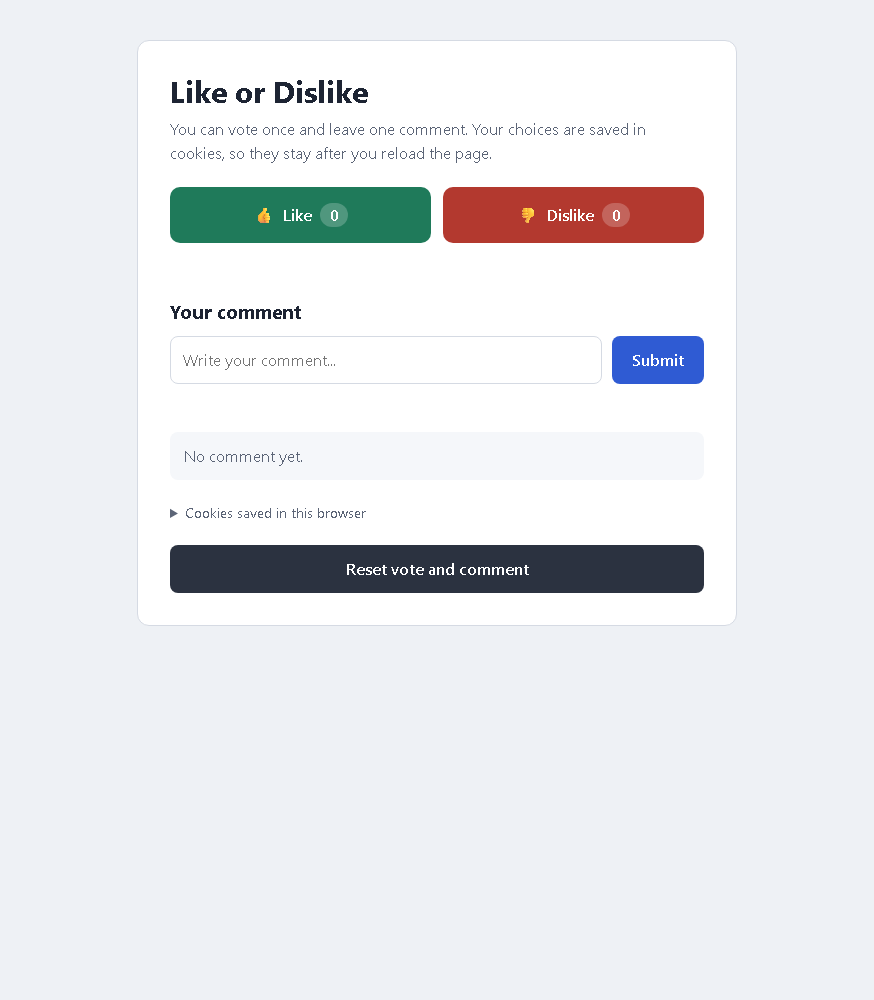
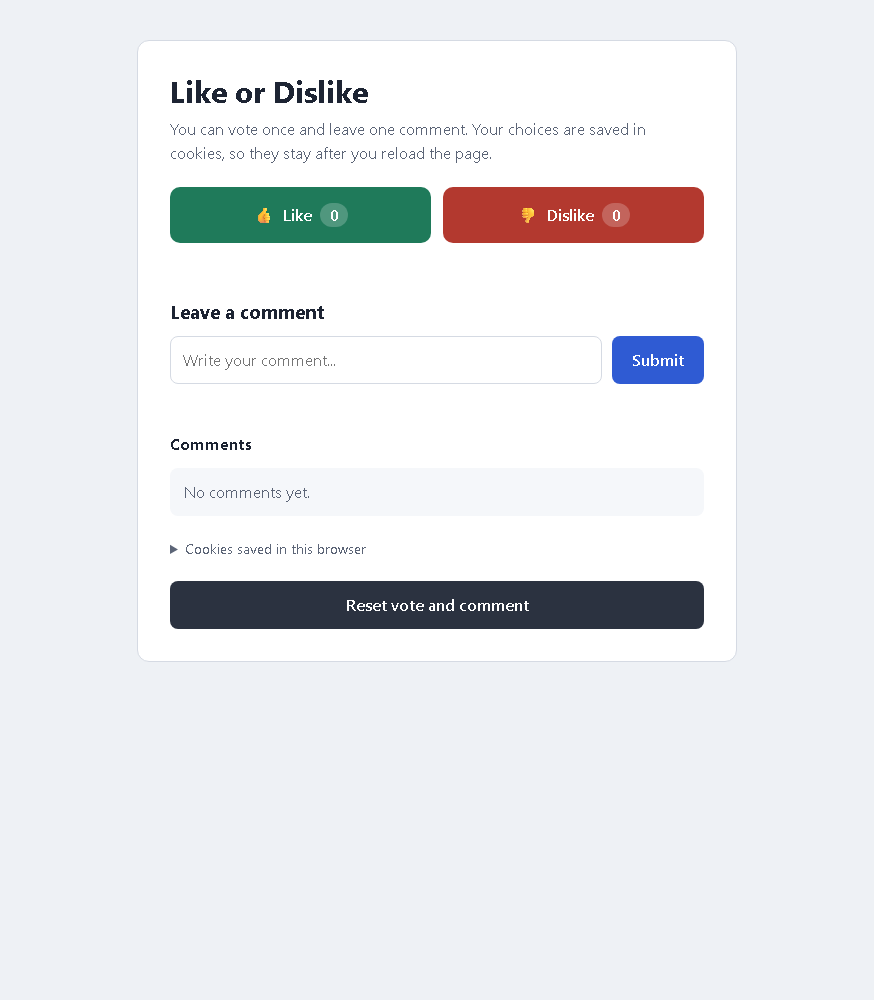
Store comments as an array, add button animations

diff --git a/script.js b/script.js
@@ -5,7 +5,7 @@
 */
 
 const COOKIE_DAYS = 30;
-const COOKIE_NAMES = ['vote', 'likes', 'dislikes', 'comment'];
+const COOKIE_NAMES = ['vote', 'likes', 'dislikes', 'comments'];
 
 /* ---------- Cookie helpers ---------- */
 
@@ -54,15 +54,17 @@ const resetBtn = document.getElementById('resetBtn');
 
 /* ---------- State (loaded from cookies) ---------- */
 
-// The comment is saved as JSON: { "text": "...", "date": "2026-10-28T..." }
-function readComment() {
-    const saved = getCookie('comment');
-    if (!saved) return null;
+// Comments are saved as a JSON array: [{ "text": "...", "date": "2026-10-28T..." }]
+function readComments() {
+    const saved = getCookie('comments');
+    if (!saved) return [];
     try {
-        const comment = JSON.parse(saved);
-        return typeof comment.text === 'string' ? comment : null;
+        const comments = JSON.parse(saved);
+        return Array.isArray(comments)
+            ? comments.filter((comment) => comment && typeof comment.text === 'string')
+            : [];
     } catch {
-        return null;
+        return [];
     }
 }
 
@@ -71,9 +73,12 @@ function loadState() {
         vote: getCookie('vote'), // "like", "dislike" or null
         likes: Number(getCookie('likes')) || 0,
         dislikes: Number(getCookie('dislikes')) || 0,
-        comment: readComment(),
+        comments: readComments(),
     };
 }
+
+// one comment per user: once the user has a saved comment, commenting is closed
+const hasCommented = () => state.comments.length > 0;
 
 let state = loadState();
 
@@ -88,24 +93,27 @@ function render() {
     likeBtn.setAttribute('aria-pressed', String(state.vote === 'like'));
     dislikeBtn.setAttribute('aria-pressed', String(state.vote === 'dislike'));
 
-    // comment
-    commentInput.disabled = state.comment !== null;
-    commentBtn.disabled = state.comment !== null;
+    // comments
+    commentInput.disabled = hasCommented();
+    commentBtn.disabled = hasCommented();
 
     commentList.replaceChildren();
-    const item = document.createElement('li');
-    if (state.comment) {
+    state.comments.forEach((comment) => {
+        const item = document.createElement('li');
         // textContent shows the comment as plain text, so HTML in it is not run
-        item.textContent = state.comment.text;
+        item.textContent = comment.text;
         const date = document.createElement('span');
         date.className = 'comment-date';
-        date.textContent = new Date(state.comment.date).toLocaleString();
+        date.textContent = new Date(comment.date).toLocaleString();
         item.append(date);
-    } else {
-        item.className = 'empty';
-        item.textContent = 'No comment yet.';
+        commentList.append(item);
+    });
+    if (state.comments.length === 0) {
+        const empty = document.createElement('li');
+        empty.className = 'empty';
+        empty.textContent = 'No comments yet.';
+        commentList.append(empty);
     }
-    commentList.append(item);
 
     // cookie viewer
     const lines = COOKIE_NAMES
@@ -134,6 +142,12 @@ function vote(choice) {
 
     render();
     voteStatus.textContent = `Thanks! You voted ${choice}.`;
+
+    // restart the "bump" animation on the count that changed
+    const count = choice === 'like' ? likeCount : dislikeCount;
+    count.classList.remove('bump');
+    void count.offsetWidth;
+    count.classList.add('bump');
 }
 
 likeBtn.addEventListener('click', () => vote('like'));
@@ -144,7 +158,7 @@ dislikeBtn.addEventListener('click', () => vote('dislike'));
 commentForm.addEventListener('submit', (event) => {
     event.preventDefault();
 
-    if (state.comment) {
+    if (hasCommented()) {
         commentStatus.textContent = 'You already left a comment. Press Reset to comment again.';
         return;
     }
@@ -156,8 +170,8 @@ commentForm.addEventListener('submit', (event) => {
         return;
     }
 
-    state.comment = { text, date: new Date().toISOString() };
-    setCookie('comment', JSON.stringify(state.comment));
+    state.comments.push({ text, date: new Date().toISOString() });
+    setCookie('comments', JSON.stringify(state.comments));
     commentInput.value = '';
 
     render();
@@ -170,7 +184,7 @@ resetBtn.addEventListener('click', () => {
     if (!confirm('Reset your vote and comment?')) return;
 
     COOKIE_NAMES.forEach(deleteCookie);
-    state = { vote: null, likes: 0, dislikes: 0, comment: null };
+    state = { vote: null, likes: 0, dislikes: 0, comments: [] };
     commentInput.value = '';
 
     render();

diff --git a/style.css b/style.css
@@ -47,6 +47,11 @@ h2 {
     font-size: 19px;
 }
 
+h3 {
+    margin: 0;
+    font-size: 16px;
+}
+
 .visually-hidden {
     position: absolute;
     width: 1px;
@@ -124,6 +129,7 @@ h2 {
 }
 
 .count {
+    display: inline-block;
     min-width: 28px;
     padding: 0 8px;
     border-radius: 999px;
@@ -133,6 +139,48 @@ h2 {
 
 .vote-btn:hover:not(:disabled) {
     filter: brightness(1.1);
+}
+
+/* small press animation */
+.vote-btn,
+.comment-form button,
+.reset-btn {
+    transition: transform 0.1s ease, filter 0.15s ease;
+}
+
+.vote-btn:active:not(:disabled),
+.comment-form button:active:not(:disabled),
+.reset-btn:active {
+    transform: scale(0.96);
+}
+
+/* the count pops when it goes up */
+.count.bump {
+    animation: bump 0.35s ease;
+}
+
+@keyframes bump {
+    50% {
+        transform: scale(1.35);
+    }
+}
+
+@media (prefers-reduced-motion: reduce) {
+    .vote-btn,
+    .comment-form button,
+    .reset-btn {
+        transition: none;
+    }
+
+    .vote-btn:active:not(:disabled),
+    .comment-form button:active:not(:disabled),
+    .reset-btn:active {
+        transform: none;
+    }
+
+    .count.bump {
+        animation: none;
+    }
 }
 
 .vote-btn:disabled {

diff --git a/index.html b/index.html
@@ -40,7 +40,7 @@
         <p id="voteStatus" class="status" role="status"></p>
 
         <section class="comment-section">
-            <h2>Your comment</h2>
+            <h2>Leave a comment</h2>
             <form id="commentForm" class="comment-form" novalidate>
                 <label for="commentInput" class="visually-hidden">Comment</label>
                 <input type="text" id="commentInput" name="comment" maxlength="200" placeholder="Write your comment..." autocomplete="off">
@@ -48,6 +48,7 @@
             </form>
             <p id="commentStatus" class="status" role="status"></p>
 
+            <h3>Comments</h3>
             <ul id="commentList" class="comment-list"></ul>
         </section>
 

diff --git a/README.md b/README.md
@@ -28,7 +28,7 @@ A Like / Dislike page with a comment box that uses cookies:
 | `vote` | `like` or `dislike` |
 | `likes` | number of likes |
 | `dislikes` | number of dislikes |
-| `comment` | the comment as JSON: `{"text": "...", "date": "..."}` |
+| `comments` | the comments array as JSON: `[{"text": "...", "date": "..."}]` |
 
 The page also has a "Cookies saved in this browser" section that shows these values.
 
